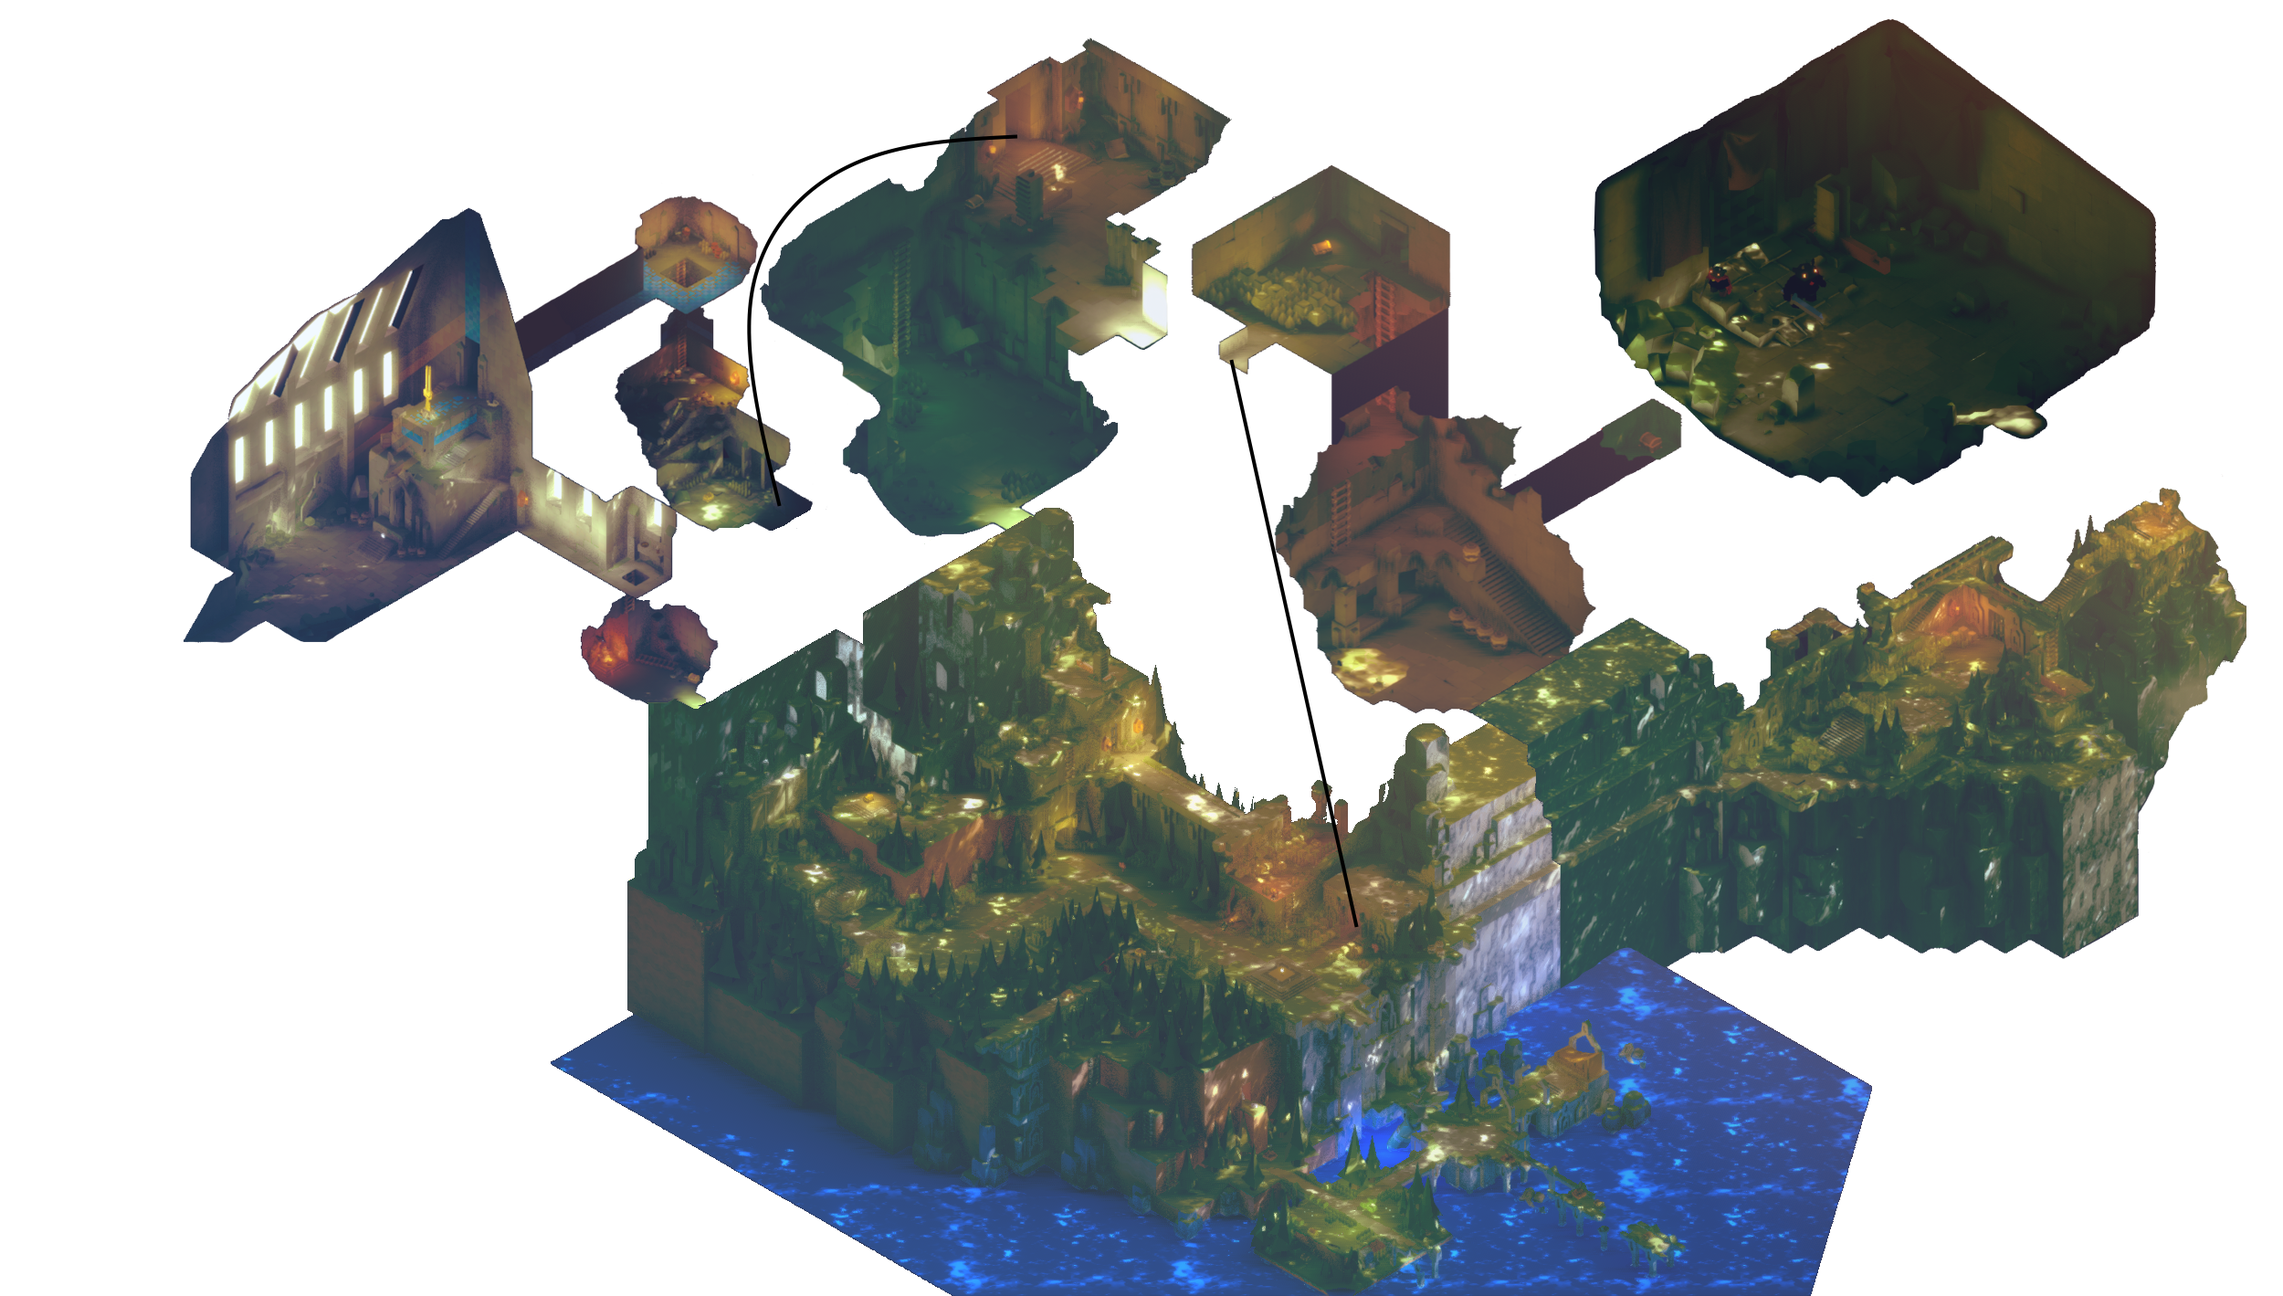
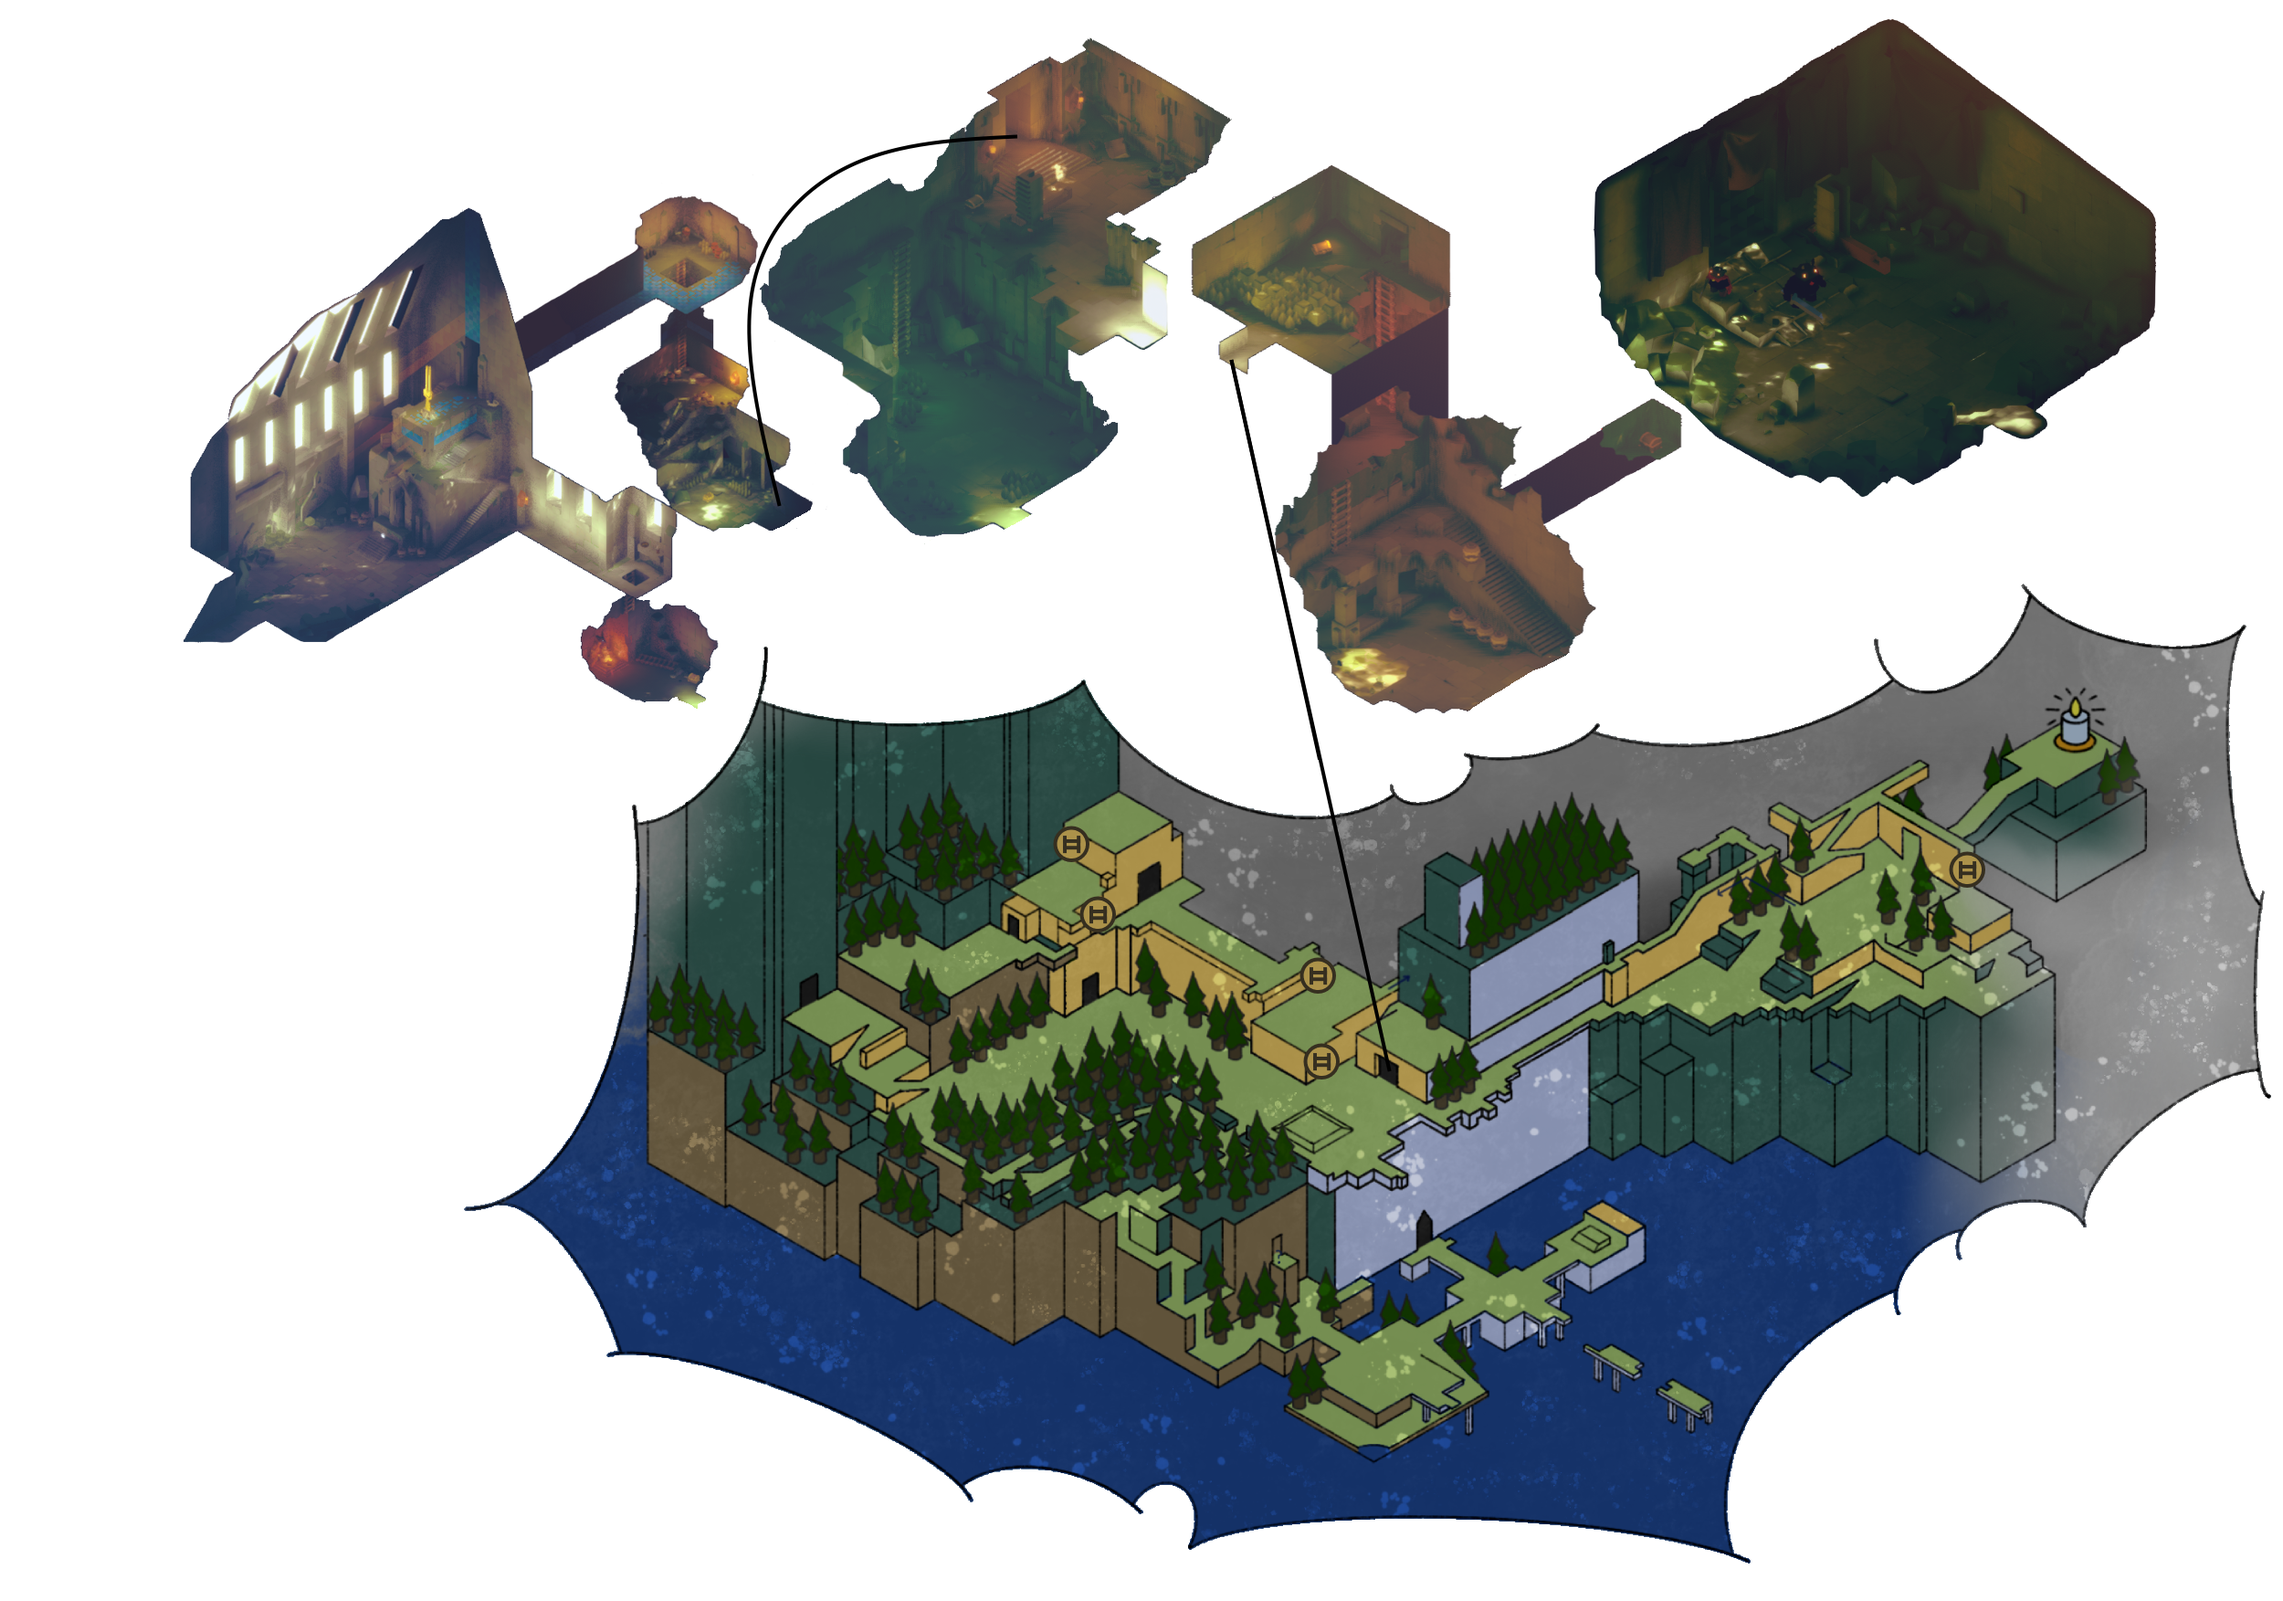
Updates from original tracker. New Esat forest pictures from Fletcher

diff --git a/data/games/tunic.js b/data/games/tunic.js
@@ -129,20 +129,20 @@ let tunic = {
             aaaa7: { x: 1068, y: 542, name: "Guardhouse 1" },
             aaaa8: { x: 1343, y: 368, name: "Guardhouse 2" },
             aaaa9: { x: 1638, y: 726, name: "Guardhouse 2" },
-            aaaa10: { x: 2339, y: 560, name: "Forest Grave Path" },
-            aaaa11: { x: 1852, y: 766, name: "Forest Grave Path" },
-            aaaa12: { x: 1814, y: 867, name: "Forest Grave Path" },
-            aaaa13: { x: 1628, y: 963 },
-            aaaa14: { x: 1663, y: 884 },
-            aaaa15: { x: 1470, y: 992 },
-            aaaa16: { x: 1505, y: 1172 },
-            aaaa17: { x: 1198, y: 790 },
-            aaaa18: { x: 846, y: 917 },
-            aaaa19: { x: 1064, y: 846 },
-            forest_portal: { x: 1380, y: 1050 },
-            guard_house_1_lower: { x: 1134, y: 904 },
+            grave_path_upper: { x: 1814, y: 1012, name: "Forest Grave Path" },
+            grave_path_lower: { x: 1823, y: 1083, name: "Forest Grave Path" },
+            grave_path_grave: { x: 2248, y: 780, name: "Forest Grave Path" },
+            forest_gh2_upper: { x: 1498, y: 1152 },
+            forest_to_belltower: { x: 871, y: 1064 },
+            forest_gh1_lower: { x: 1171, y: 1064 },
+            forest_gh1_upper: { x: 1231, y: 946 },
             boss_front: { x: 2208, y: 438, name: "Forest Boss" },
             boss_back: { x: 1883, y: 231, name: "Forest Boss" },
+            forest_grave_lower: { x: 1669, y: 1182 },
+            forest_dance_fox: { x: 1093, y: 990 },
+            forest_gh2_lower: { x: 1538, y: 1325 },
+            forest_grave_upper: { x: 1594, y: 1100 },
+            forest_portal: { x: 1412, y: 1214 },
         },
 
         dark_tomb: {

diff --git a/index.html b/index.html
@@ -26,9 +26,9 @@
     <meta name="viewport" content="width=device-width, initial-MAP_SCALE=1">
     <link rel="icon" href="images/icon.png">
     <!-- Social media metadata -->
-    <meta property="og:title" content="Pokémon Warp Tracker" />
-    <meta property="og:description" content="Tool to track Warps in Pokémon Warp Randomizer" />
-    <meta property="og:image" content="https://sekii.gitlab.io/pokemon-tracker/images/thumbnail.png" />
+    <meta property="og:title" content="TUNIC Entrance Tracker" />
+    <meta property="og:description" content="Tool to track entrances in the TUNIC Entrance Randomizer" />
+    <meta property="og:image" content="https://scipiowright.gitlab.io/tunic-tracker/images/thumbnail.png" />
     <meta name="twitter:card" content="summary_large_image"></meta>
 </head>
 
